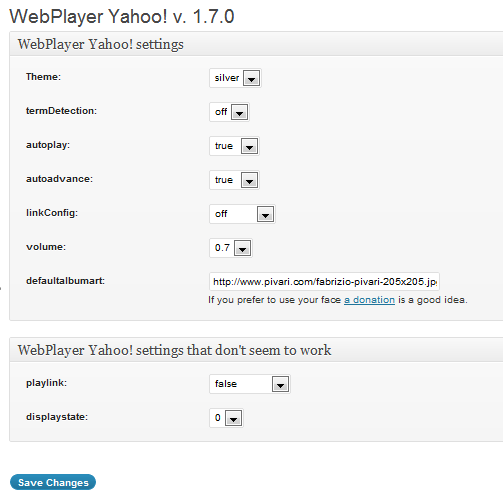
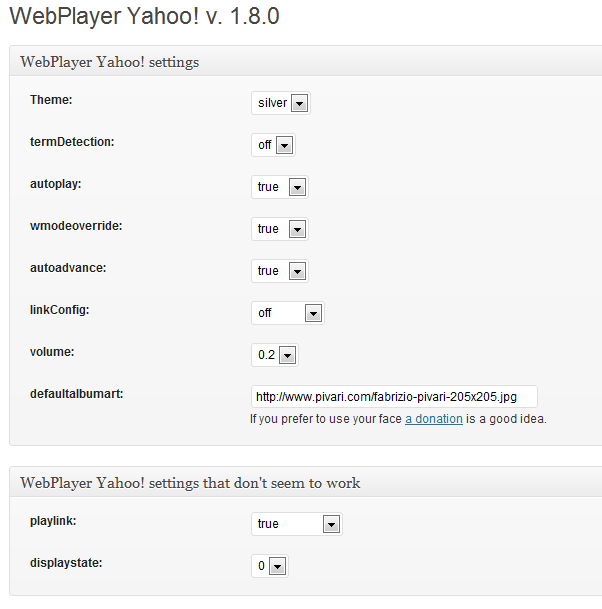
git-svn-id: https://plugins.svn.wordpress.org/webplayer-yahoo/trunk@529039 b8457f37-d9ea-0310-8a92-e5e31aec5664

diff --git a/webplayer-yahoo.php b/webplayer-yahoo.php
@@ -4,16 +4,15 @@
 Plugin Name: WebPlayer Yahoo!
 Plugin URI: http://www.pivari.com/wordpress-plugins/webplayer-yahoo-wp-plugin/
 Description: A simple Plugin to add WebPlayer Yahoo! code on your pages.
-Version: 1.7.0
+Version: 1.8.0
 Author: Fabrizio Pivari
 Author URI: http://www.pivari.com
  */
 /*  Copyright 2011-2012 Fabrizio Pivari  (email : fabrizio@pivari.com)
 
     This program is free software; you can redistribute it and/or modify
-    it under the terms of the GNU General Public License as published by
-    the Free Software Foundation; either version 2 of the License, or
-    (at your option) any later version.
+    it under the terms of the GNU General Public License, version 2, as 
+    published by the Free Software Foundation.
 
     This program is distributed in the hope that it will be useful,
     but WITHOUT ANY WARRANTY; without even the implied warranty of
@@ -22,10 +21,11 @@ Author URI: http://www.pivari.com
 
     You should have received a copy of the GNU General Public License
     along with this program; if not, write to the Free Software
-    Foundation, Inc., 59 Temple Place, Suite 330, Boston, MA  02111-1307  USA
+    Foundation, Inc., 51 Franklin St, Fifth Floor, Boston, MA  02110-1301  USA
+
 */
 
-$webplayerversion="1.7.0";
+$webplayerversion="1.8.0";
 
 if (!defined('WP_CONTENT_URL'))
       define('WP_CONTENT_URL', get_option('siteurl').'/wp-content');
@@ -46,6 +46,7 @@ function activate_webplayer() {
 	add_option('volume', '5');
 	add_option('playlink', 'media-only');
 	add_option('displaystate', '0');
+	add_option('wmodeoverride', 'true');
 }
 
 function deactive_webplayer() {
@@ -58,6 +59,7 @@ function deactive_webplayer() {
   delete_option('volume');
   delete_option('playlink');
   delete_option('displaystate');
+  delete_option('wmodeoverride');
 }
 
 function admin_init_webplayer() {
@@ -70,6 +72,7 @@ function admin_init_webplayer() {
   register_setting('webplayer', 'volume');
   register_setting('webplayer', 'playlink');
   register_setting('webplayer', 'displaystate');
+  register_setting('webplayer', 'wmodeoverride');
 }
 
 function admin_menu_webplayer() {
@@ -90,16 +93,19 @@ function webplayer() {
   $linkConfig = get_option('linkConfig');
   $volume = get_option('volume');
   if ( $volume == '10' ) $volume='1.00';
+//  if ( $volume == '10' ) $volume='1.0';
   else $volume = '0.'.$volume.'0';
+//  else $volume = '0.'.$volume;
   $playlink = get_option('playlink');
   $displaystate = get_option('displaystate');
+  $wmodeoverride = get_option('wmodeoverride');
   if ( $defaultalbumart == '' )
 	  $defaultalbumart = 'http://www.pivari.com/fabrizio-pivari-205x205.jpg';
   if ( $linkConfig == 'youtube' )
       $linkConfig = ', linkConfig:{youtube: \'ignore\'}';
   else $linkConfig = '';
   echo "\n".'<!-- WebPlayer Yahoo! plugin v. '.$webplayerversion.' (Begin) -->'."\n" ;
-  $options='<script type="text/javascript"> var YWPParams = { theme: "' . $theme . '", termDetection: "' . $termDetection . '", autoplay:' . $autoplay . ', autoadvance:' . $autoadvance . ', volume:' . $volume . ', playlink:' . $playlink . ', displaystate:' . $displaystate . $linkConfig . ', defaultalbumart:"' . $defaultalbumart . '" }; </script>'."\n";
+  $options='<script type="text/javascript"> var YWPParams = { theme: "' . $theme . '", termDetection: "' . $termDetection . '", autoplay:' . $autoplay . ', autoadvance:' . $autoadvance . ', volume:' . $volume . ', playlink:' . $playlink . ', displaystate:' . $displaystate . $linkConfig . ', defaultalbumart:"' . $defaultalbumart . '", wmodeoverride:' . $wmodeoverride . ' }; </script>'."\n";
   echo $options;
   echo '<script type="text/javascript" src="http://webplayer.yahooapis.com/player.js"></script>'."\n" ;
   echo '<!-- WebPlayer Yahoo! plugin v. '.$webplayerversion.' (End) -->'."\n" ;

diff --git a/options.php b/options.php
@@ -36,6 +36,14 @@
   </select>
 </td>
 </tr><tr valign="top">
+<th scope="row"><b>wmodeoverride:</b></th>
+<td>
+  <select name="wmodeoverride">
+    <option value="true" <?php if (get_option('wmodeoverride') == 'true') echo "selected=selected" ?>>true</option>
+    <option value="false"  <?php if (get_option('wmodeoverride') == 'false') echo "selected=selected" ?>>false</option>
+  </select>
+</td>
+</tr><tr valign="top">
 <th scope="row"><b>autoadvance:</b></th>
 <td>
   <select name="autoadvance">
